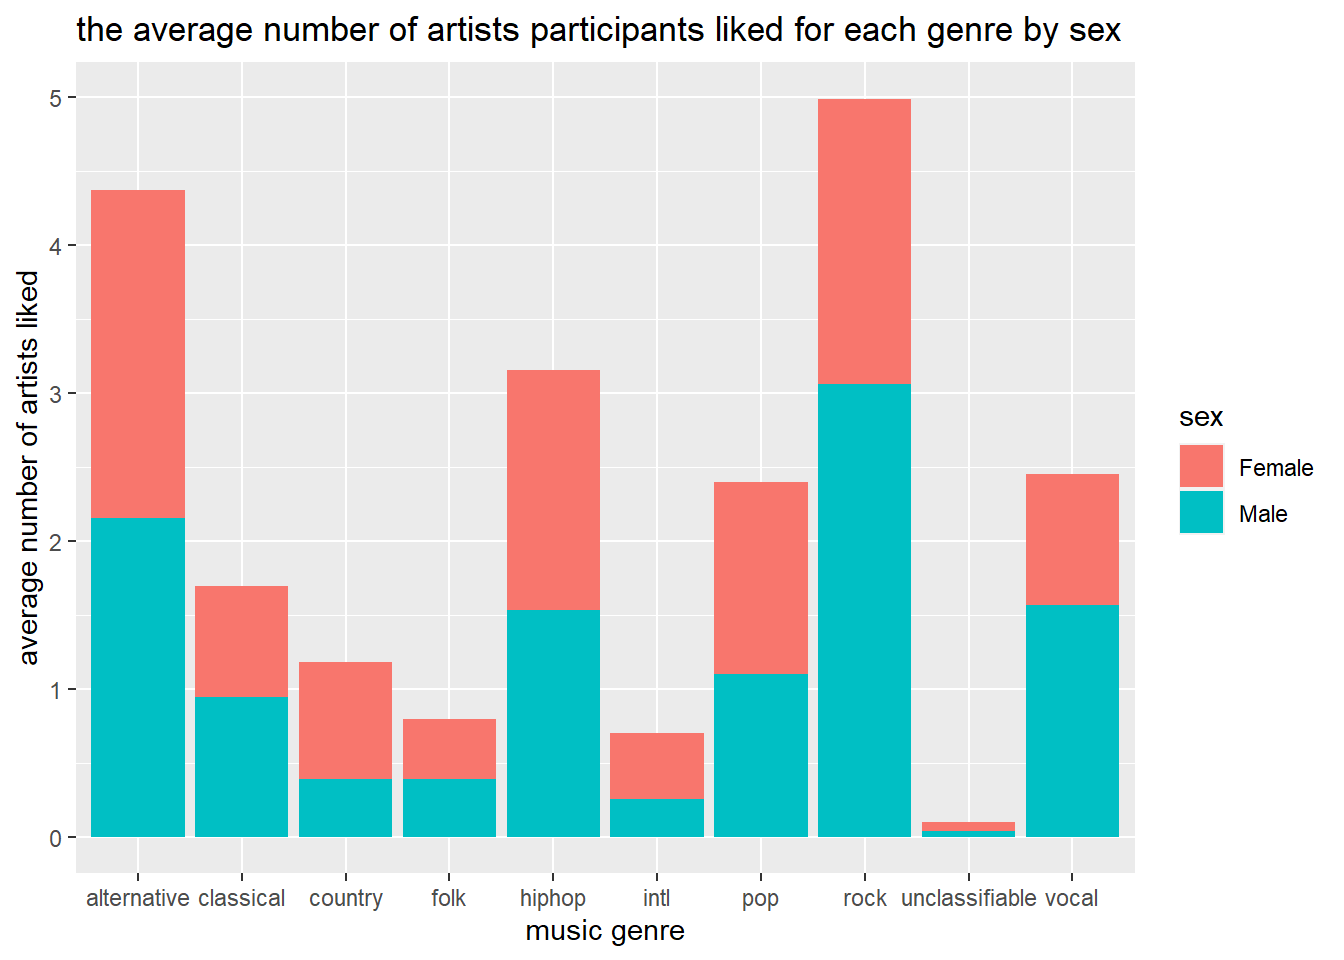
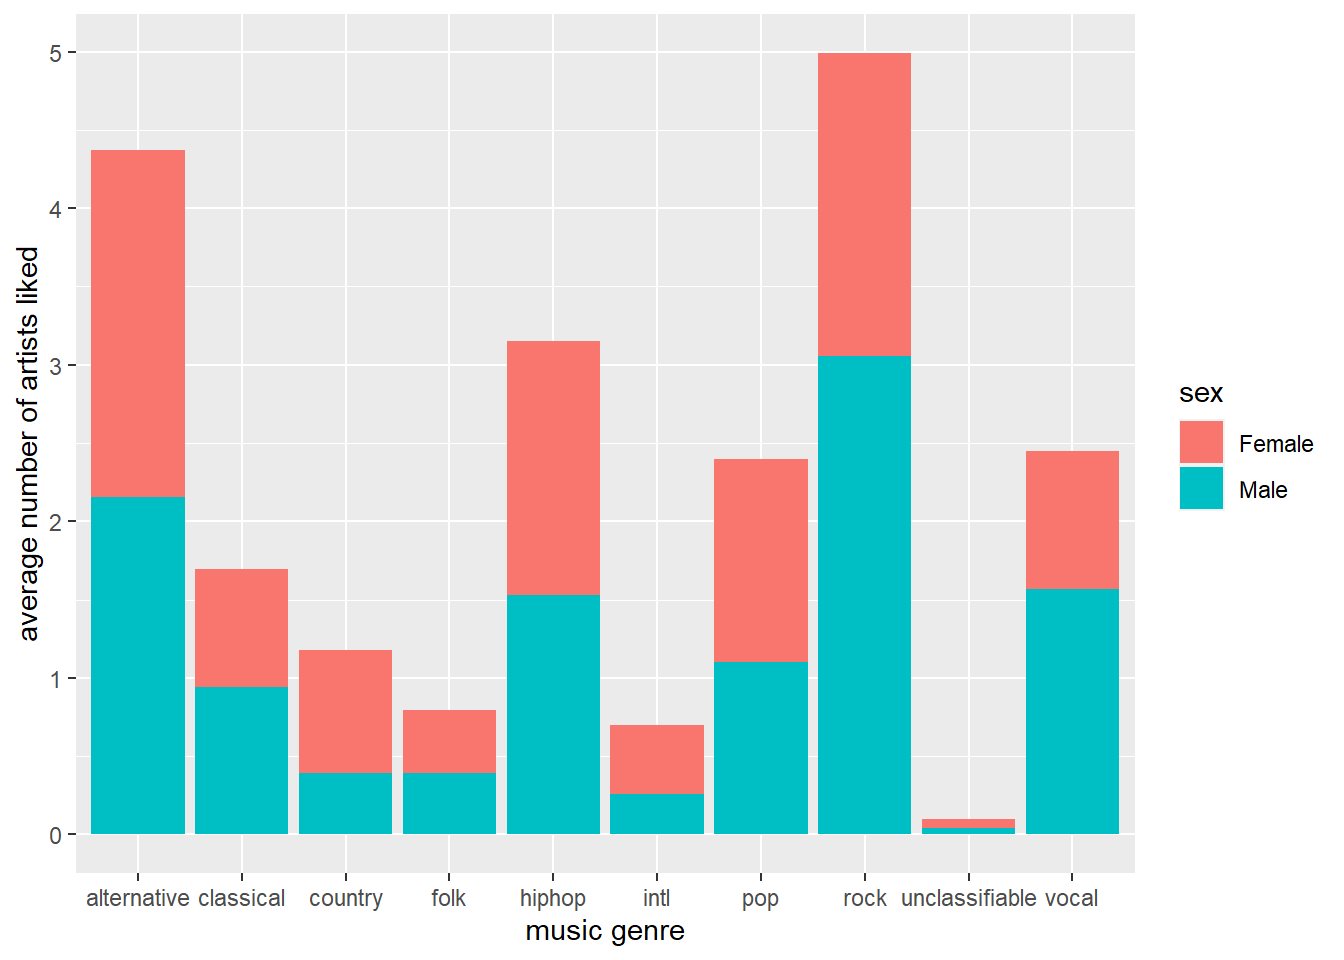
challenge 3 plot updated

diff --git a/supporting_artifacts/continued_learning/revisions/Challenge3.html b/supporting_artifacts/continued_learning/revisions/Challenge3.html
@@ -162,8 +162,7 @@ code span.wa { color: #60a0b0; font-weight: bold; font-style: italic; } /* Warni
 <span id="cb1-24"><a href="#cb1-24" aria-hidden="true" tabindex="-1"></a>  <span class="fu">geom_bar</span>(<span class="at">stat =</span> <span class="st">"identity"</span>) <span class="sc">+</span></span>
 <span id="cb1-25"><a href="#cb1-25" aria-hidden="true" tabindex="-1"></a>  <span class="fu">labs</span>(<span class="at">x =</span> <span class="st">"music genre"</span>, </span>
 <span id="cb1-26"><a href="#cb1-26" aria-hidden="true" tabindex="-1"></a>       <span class="at">y=</span> <span class="st">"average number of artists liked"</span>, </span>
-<span id="cb1-27"><a href="#cb1-27" aria-hidden="true" tabindex="-1"></a>       <span class="at">title =</span> <span class="st">"the average number of artists participants liked for each genre by sex "</span> </span>
-<span id="cb1-28"><a href="#cb1-28" aria-hidden="true" tabindex="-1"></a>       )</span></code><button title="Copy to Clipboard" class="code-copy-button"><i class="bi"></i></button></pre></div>
+<span id="cb1-27"><a href="#cb1-27" aria-hidden="true" tabindex="-1"></a>       )</span></code><button title="Copy to Clipboard" class="code-copy-button"><i class="bi"></i></button></pre></div>
 </details>
 <div class="cell-output-display">
 <p><img src="Challenge3_files/figure-html/unnamed-chunk-3-1.png" class="img-fluid" width="672"></p>
@@ -201,8 +200,7 @@ code span.wa { color: #60a0b0; font-weight: bold; font-style: italic; } /* Warni
 <span id="cb2-24"><a href="#cb2-24" aria-hidden="true" tabindex="-1"></a>  <span class="fu">geom_bar</span>(<span class="at">stat =</span> <span class="st">"identity"</span>) <span class="sc">+</span> </span>
 <span id="cb2-25"><a href="#cb2-25" aria-hidden="true" tabindex="-1"></a>  <span class="fu">labs</span>(<span class="at">x =</span> <span class="st">"music genre"</span>, </span>
 <span id="cb2-26"><a href="#cb2-26" aria-hidden="true" tabindex="-1"></a>       <span class="at">y =</span> <span class="st">"average number of artists liked"</span>, </span>
-<span id="cb2-27"><a href="#cb2-27" aria-hidden="true" tabindex="-1"></a>       <span class="at">title =</span> <span class="st">"the average number of artists participants liked for each genre by ethnicity"</span> </span>
-<span id="cb2-28"><a href="#cb2-28" aria-hidden="true" tabindex="-1"></a>       )</span></code><button title="Copy to Clipboard" class="code-copy-button"><i class="bi"></i></button></pre></div>
+<span id="cb2-27"><a href="#cb2-27" aria-hidden="true" tabindex="-1"></a>       )</span></code><button title="Copy to Clipboard" class="code-copy-button"><i class="bi"></i></button></pre></div>
 </details>
 <div class="cell-output-display">
 <p><img src="Challenge3_files/figure-html/unnamed-chunk-4-1.png" class="img-fluid" width="672"></p>
